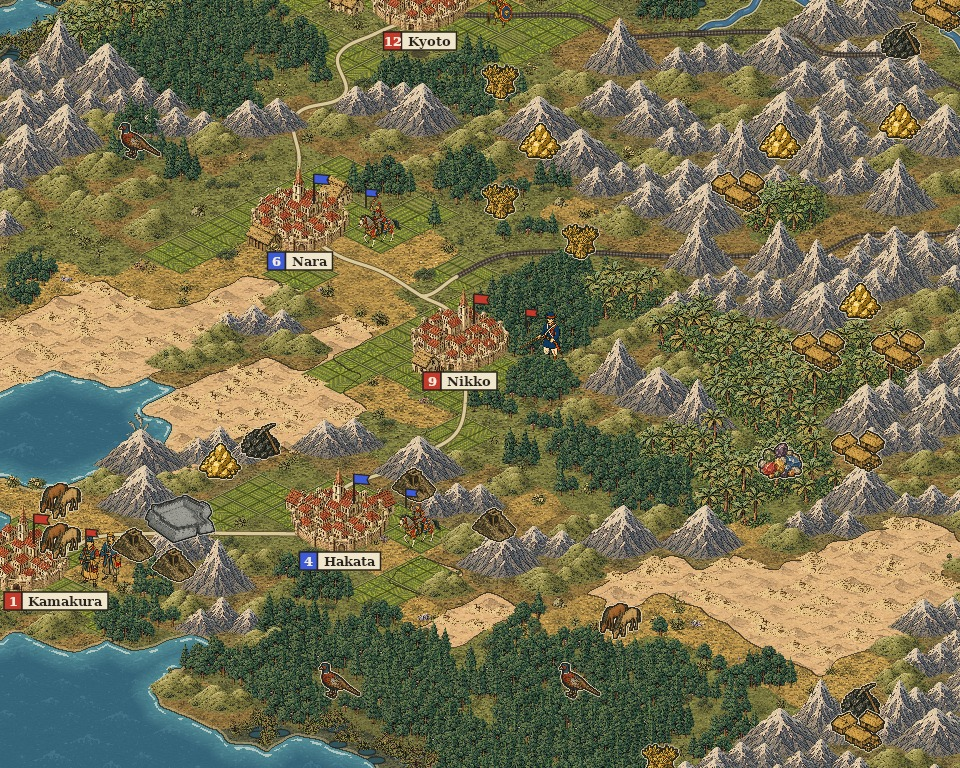
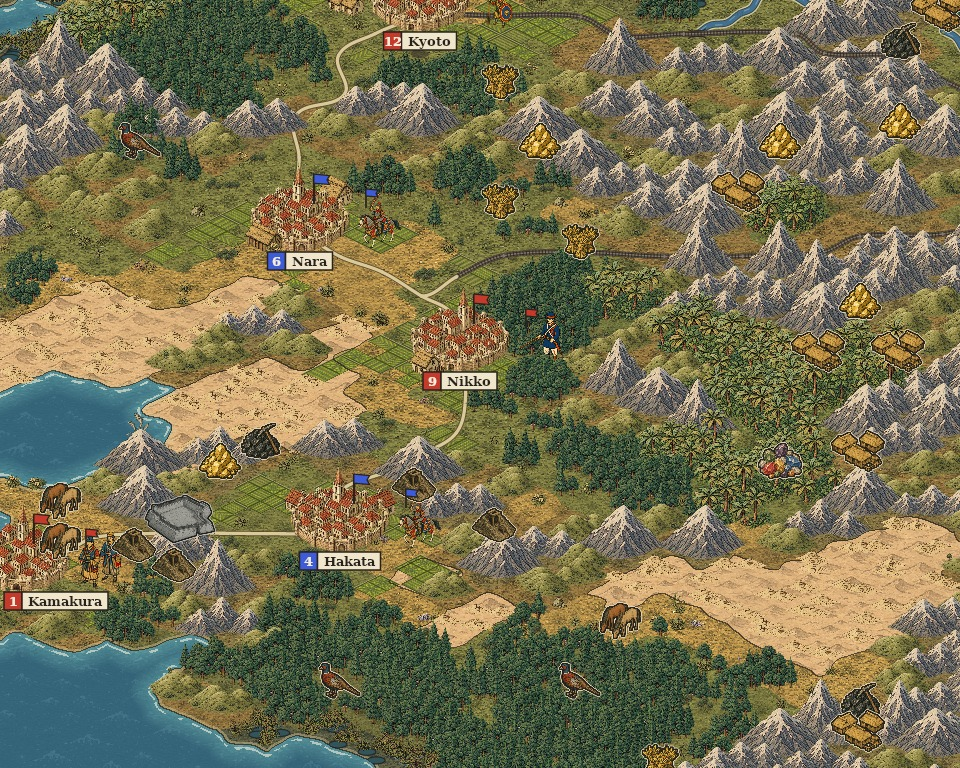
Iso view: ragged field outlines
About half the plots along a field's outer edge, where the next cell is
not a field, are left as open ground, so the fields round a city have a
ragged outline instead of a solid square.

Claude-Session: https://claude.ai/code/session_01VGBb6mKQ3kspS5r6m29MiP

diff --git a/src/Graphics/IsoView.cs b/src/Graphics/IsoView.cs
@@ -584,6 +584,17 @@ namespace OpenCivOne.Graphics
 				return f;
 			}
 
+			// a field's outline is ragged, not square: about half the plots along its outer edge, where the next cell is
+			// not a field, are left as open ground
+			bool RaggedEdge(int fcx, int fcy, float gx0, float gy0)
+			{
+				int nu = Hash(Wrap(fcx), 0, 61) < 0.5f ? 2 : 3, nv = Hash(0, fcy, 62) < 0.5f ? 2 : 3;
+				int pu = Math.Min(nu - 1, (int)((gx0 - fcx) * nu)), pv = Math.Min(nv - 1, (int)((gy0 - fcy) * nv));
+				bool outer = (pu == 0 && !IsFieldCell(fcx - 1, fcy)) || (pu == nu - 1 && !IsFieldCell(fcx + 1, fcy)) ||
+					(pv == 0 && !IsFieldCell(fcx, fcy - 1)) || (pv == nv - 1 && !IsFieldCell(fcx, fcy + 1));
+				return outer && Hash((Wrap(fcx) * 3) + pu, (fcy * 3) + pv, 56) < 0.5f;
+			}
+
 			// pass 2: the shallows, foam, coast line, beach, and an ink line where two kinds of ground meet
 			float[] seaDist = Distance(kind, w, h, k => k != Sea);
 			float[] snowDist = Distance(kind, w, h, k => k != Snow);
@@ -638,7 +649,7 @@ namespace OpenCivOne.Graphics
 					{
 						int fcx = (int)MathF.Floor(gx0), fcy = (int)MathF.Floor(gy0);
 
-						if (IsFieldCell(fcx, fcy))
+						if (IsFieldCell(fcx, fcy) && !RaggedEdge(fcx, fcy, gx0, gy0))
 						{
 							// two or three plots across each cell, chosen per column and per row, so the lanes run on unbroken
 							// through the field but the plots are not all one size
